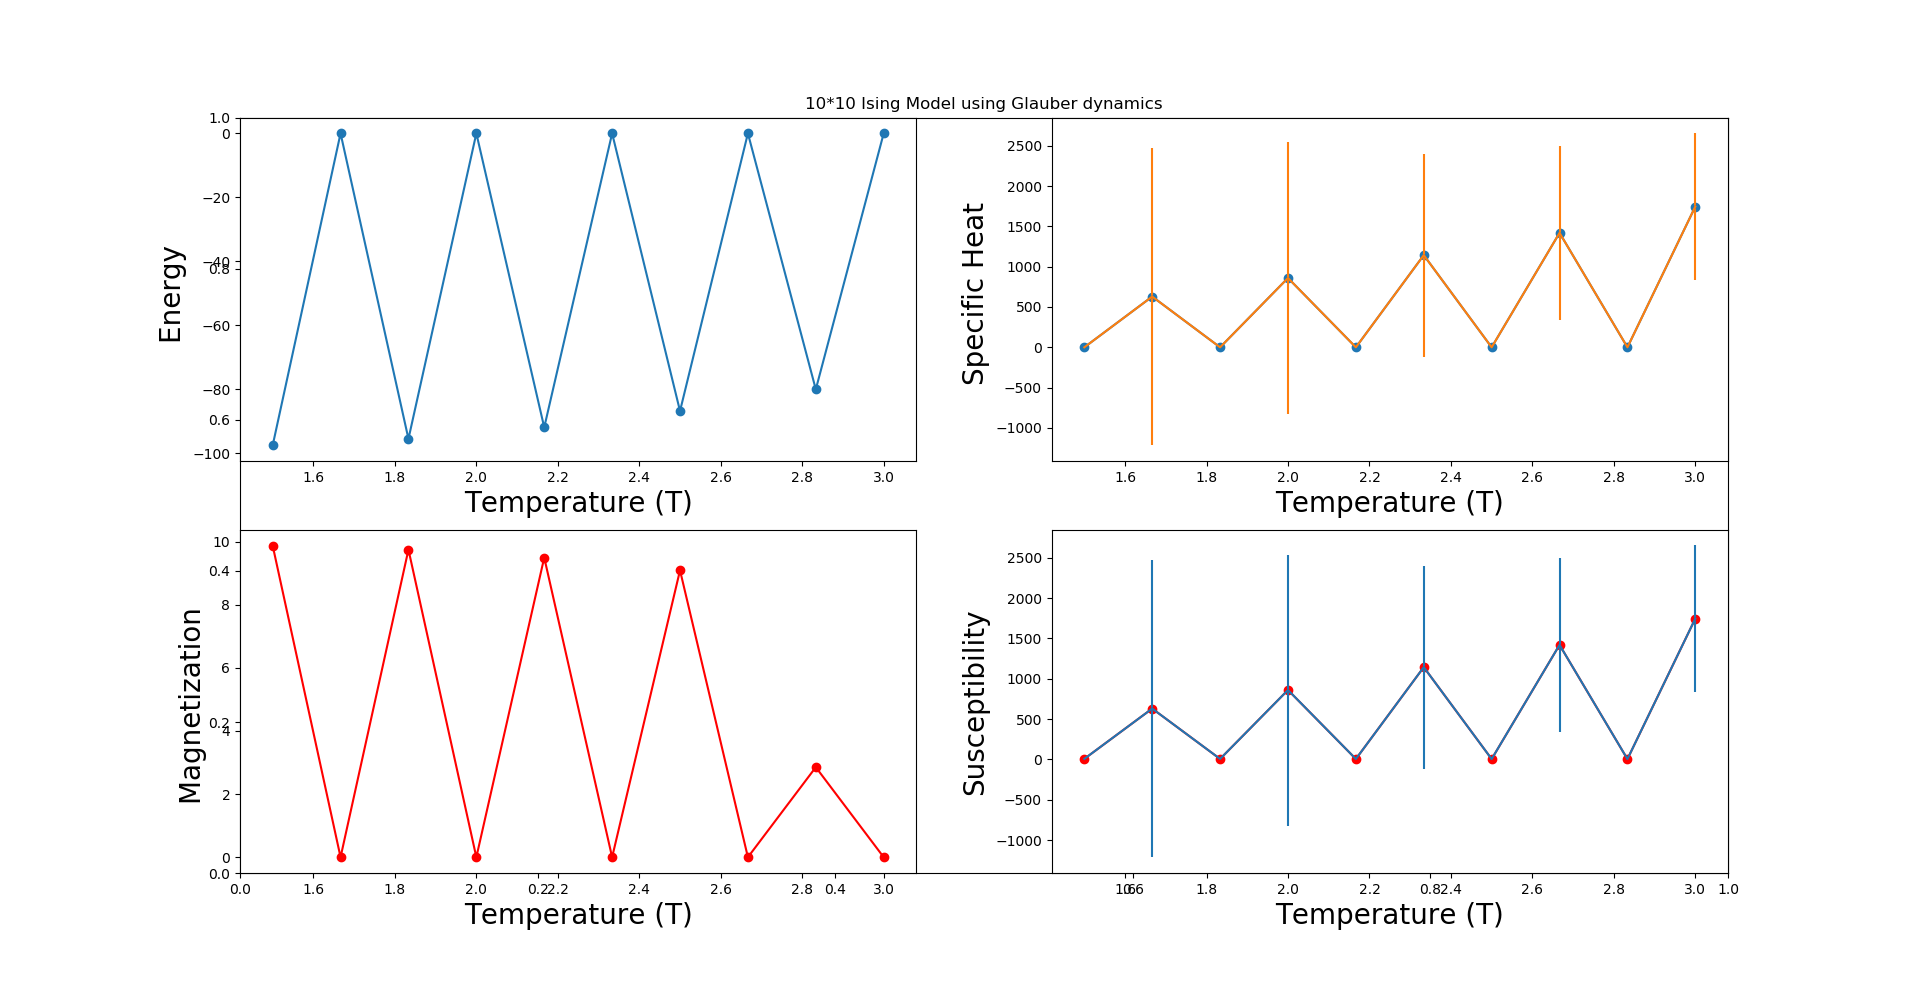
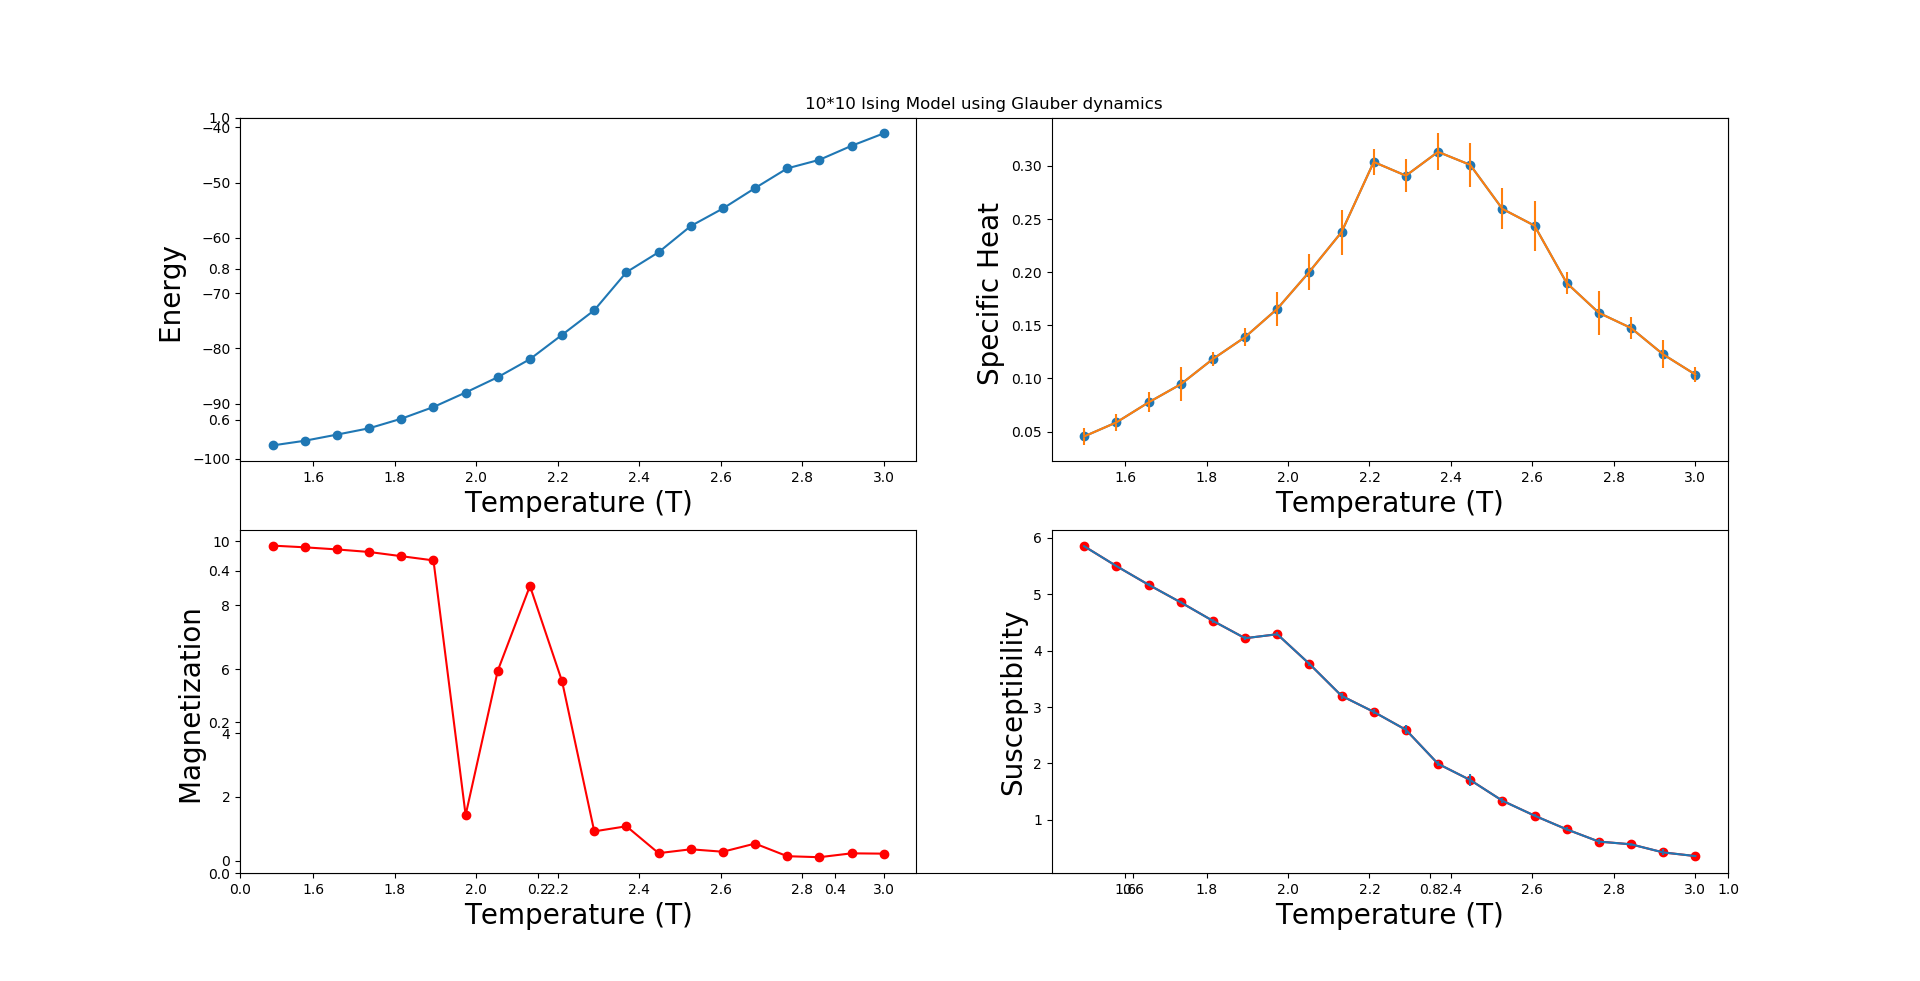
everything is working other than X for glauber

diff --git a/main.py b/main.py
@@ -25,8 +25,6 @@ class Ising(object):
         #self.spins = config
         self.T = T
 
-
-
     def getEnergyChange(self,pos):
         NNSpins = self.spins[(pos[0]+1)%self.N,pos[1]]+self.spins[pos[0],(pos[1]+1)%self.N]+self.spins[(pos[0]-1)%self.N,pos[1]]+self.spins[pos[0],(pos[1]-1)%self.N]
         dE = 2*self.spins[pos[0],pos[1]]*NNSpins
@@ -77,13 +75,14 @@ class Ising(object):
 
         #if animate==True:
         plt.show()
-
-        C = np.var(Es)/(self.N**2*self.T**2)
-        X = np.var(Ms)/(self.N**2*self.T)
+        k1 = (self.N**2*self.T**2)
+        k2 = (self.N**2*self.T)
+        C = np.var(Es)/k1
+        X = np.var(Ms)/k2
         E = np.mean(Es)
         M=  np.mean(Ms)
         values = [E,M,C,X]
-        errors = [0,0,Ising.errors(Es,5),Ising.errors(Es,5)]
+        errors = [np.std(E)/np.size(E),np.std(M)/np.size(M),Ising.errors(Es,5,k1),Ising.errors(Ms,5,k2)]
 
         return [values,errors]
 
@@ -135,42 +134,42 @@ class Ising(object):
 
     @classmethod
     def plots(cls):
-        C = np.genfromtxt('./data/heatcapacity.{}.csv'.format(cls.__name__), delimiter=",").reshape(2,-1)
-        E = np.genfromtxt('./data/energy.{}.csv'.format(cls.__name__), delimiter=",").reshape(2,-1)
+        C = np.genfromtxt('./data/heatcapacity.{}.csv'.format(cls.__name__), delimiter=",").reshape(-1,2)
+        print(C)
+        E = np.genfromtxt('./data/energy.{}.csv'.format(cls.__name__), delimiter=",").reshape(-1,2)
         TN = np.genfromtxt('./data/temperatures{}.csv'.format(cls.__name__).format(cls.__name__), delimiter=",")
         N=int(TN[-1])
         T = TN[0:np.size(TN)-1]
-        M = np.genfromtxt('./data/mag.{}.csv'.format(cls.__name__), delimiter=",").reshape(2,-1)
-        X = np.genfromtxt('./data/magsep.{}.csv'.format(cls.__name__), delimiter=",").reshape(2,-1)
+        M = np.genfromtxt('./data/mag.{}.csv'.format(cls.__name__), delimiter=",").reshape(-1,2)
+        X = np.genfromtxt('./data/magsep.{}.csv'.format(cls.__name__), delimiter=",").reshape(-1,2)
         f = plt.figure(figsize=(18, 10))
         plt.title("{}*{} Ising Model using {} dynamics".format(N,N,cls.__name__))
-        print(np.size(E[0,:]))
-        print(np.size(T))
+
         sp =  f.add_subplot(2, 2, 1 );
-        plt.scatter(T,E[0,:])
-        plt.plot(T,E[0,:])
+        plt.scatter(T,E[:,0])
+        plt.plot(T,E[:,0])
 
         plt.xlabel("Temperature (T)", fontsize=20);
         plt.ylabel("Energy ", fontsize=20);         plt.axis('tight');
 
         sp =  f.add_subplot(2, 2, 2 );
-        plt.scatter(T,C[0,:])
-        plt.plot(T,C[0,:])
-        plt.errorbar(T,C[0,:],yerr=C[1,:])
+        plt.scatter(T,C[:,0])
+        plt.plot(T,C[:,0])
+        plt.errorbar(T,C[:,0],yerr=C[:,1])
         plt.xlabel("Temperature (T)", fontsize=20);
         plt.ylabel("Specific Heat ", fontsize=20);         plt.axis('tight');
 
         sp =  f.add_subplot(2, 2, 3 );
-        plt.scatter(T,abs(M[0,:]),color='r')
-        plt.plot(T,abs(M[0,:]),color='r')
+        plt.scatter(T,abs(M[:,0]),color='r')
+        plt.plot(T,abs(M[:,0]),color='r')
 
         plt.xlabel("Temperature (T)", fontsize=20);
         plt.ylabel("Magnetization ", fontsize=20);         plt.axis('tight');
 
         sp =  f.add_subplot(2, 2, 4 );
-        plt.scatter(T,abs(X[0,:]),color='r')
-        plt.plot(T,abs(X[0,:]),color='r')
-        plt.errorbar(T,X[0,:],yerr=X[1,:])
+        plt.scatter(T,abs(X[:,0]),color='r')
+        plt.plot(T,abs(X[:,0]),color='r')
+        plt.errorbar(T,X[:,0],yerr=X[:,1])
         plt.xlabel("Temperature (T)", fontsize=20);
         plt.ylabel("Susceptibility", fontsize=20);         plt.axis('tight');
 
@@ -178,12 +177,12 @@ class Ising(object):
         f.savefig('{}.png'.format(cls.__name__))
 
     @staticmethod
-    def errors(data,n):
+    def errors(data,n,k):
         samps = np.zeros(np.size(data)).reshape(n,-1)
         for i in range(0,n):
             samps[i] = data[i::n]
-        x = np.mean(np.var(samps,axis=1))
-        x2 = np.mean(np.var(samps**2,axis=1))
+        x = np.mean(np.var(samps,axis=1)/k)
+        x2 = np.mean((np.var(samps,axis=1)/k)**2)
         return(np.sqrt(x2-x**2))
 
 class Glauber(Ising):
@@ -257,16 +256,16 @@ def main(argv):
     if argv[1] == 'G' or argv[1] =='Glauber' or argv[1] =='B':
         if animate=='True':
             I = Glauber(N,0.5,T,config='random')
-            I.simulate(10000,True)
+            I.simulate(1000,True)
         else:
             Glauber.experiment(N,0.5,Tn)
             Glauber.plots()
     if argv[1] == 'K' or argv[1] == 'Kawasaki' or argv[1] =='B':
         if animate=='True':
             I = Kawasaki(N,0.5,T,config='random')
-            I.simulate(10000,True)
+            I.simulate(1000,True)
         else:
-            Kawasaki.experiment(N,0.5,Tn)
+            #Kawasaki.experiment(N,0.5,Tn)
             Kawasaki.plots()
         # else:
         #     print("Input format: [dynamics: 'G', 'K'],[animate: True, False] ,[N: int], [T: float]")
@@ -275,9 +274,3 @@ def main(argv):
     #
 
 main(sys.argv)
-
-# def main():
-#     I = Ising(10,0.5,10)
-#     print(I.errors(np.arange(0,100),10))
-#
-# main()
